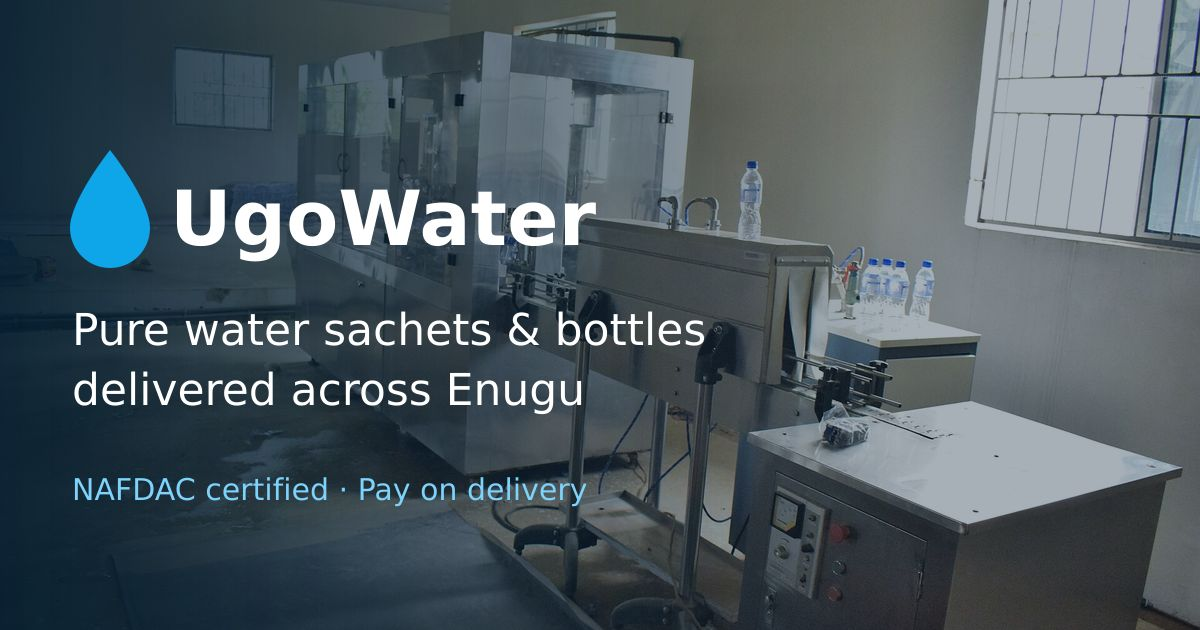
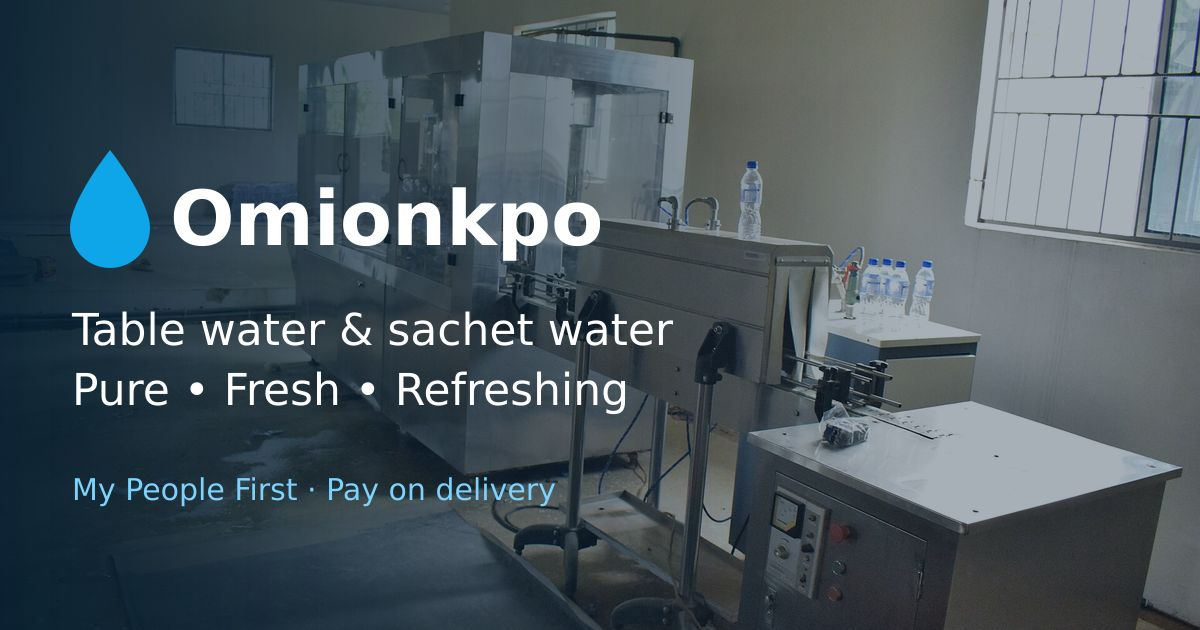
Rename the site to Omionkpo Table Water on the omionkpo subdomain

Changed region(s): [[0.0617, 0.4825, 0.5858, 0.6635], [0.1233, 0.3016, 0.5242, 0.4222], [0.0617, 0.754, 0.4933, 0.8143]]

diff --git a/src/components/Footer.tsx b/src/components/Footer.tsx
@@ -21,16 +21,15 @@ export default function Footer() {
             <Link href="/" className="flex items-center gap-2 mb-4">
               <Droplets className="h-8 w-8 text-primary" />
               <div className="flex flex-col leading-none">
-                <span className="font-bold text-lg">{siteConfig.name}</span>
+                <span className="font-bold text-lg">{siteConfig.shortName}</span>
                 <span className="text-[10px] tracking-widest text-primary font-semibold">
-                  PURE WATER
+                  TABLE WATER
                 </span>
               </div>
             </Link>
             <p className="text-sm text-white/60 leading-relaxed mb-5">
-              Bringing clean, NAFDAC-certified pure water to homes and
-              businesses across Enugu and the South East. From sachet to
-              bottle, we deliver freshness you can trust.
+              Pure, fresh, refreshing table water from Aku, Igbo-Etiti, delivered to homes and
+              businesses across Enugu State. {siteConfig.slogan}.
             </p>
             {socialLinks.length > 0 && (
               <div className="flex items-center gap-3">
@@ -97,19 +96,22 @@ export default function Footer() {
                   {siteConfig.phone}
                 </a>
               </li>
-              <li className="flex items-start gap-2.5">
-                <Mail className="h-4 w-4 text-primary mt-0.5 flex-shrink-0" />
-                <a
-                  href={`mailto:${siteConfig.email}`}
-                  className="text-sm text-white/60 hover:text-primary"
-                >
-                  {siteConfig.email}
-                </a>
-              </li>
+              {siteConfig.email && (
+                <li className="flex items-start gap-2.5">
+                  <Mail className="h-4 w-4 text-primary mt-0.5 flex-shrink-0" />
+                  <a
+                    href={`mailto:${siteConfig.email}`}
+                    className="text-sm text-white/60 hover:text-primary"
+                  >
+                    {siteConfig.email}
+                  </a>
+                </li>
+              )}
               <li className="flex items-start gap-2.5">
                 <MapPin className="h-4 w-4 text-primary mt-0.5 flex-shrink-0" />
                 <span className="text-sm text-white/60">
-                  {siteConfig.address.street}, {siteConfig.address.city}, Nigeria
+                  {siteConfig.address.street}, {siteConfig.address.city}, {siteConfig.address.lga},{' '}
+                  {siteConfig.address.region}
                 </span>
               </li>
             </ul>
@@ -119,19 +121,14 @@ export default function Footer() {
         {/* Bottom bar */}
         <div className="border-t border-white/10 pt-6 flex flex-col md:flex-row items-center justify-between gap-4">
           <p className="text-sm text-white/50">
-            &copy; {new Date().getFullYear()} {siteConfig.name}. All rights
-            reserved.
+            &copy; {new Date().getFullYear()} {siteConfig.name}. All rights reserved.
           </p>
-          <span className="text-sm text-white/50">
-            NAFDAC No: {siteConfig.nafdacNumber}
-          </span>
+          <span className="text-sm text-white/50">NAFDAC No: {siteConfig.nafdacNumber}</span>
         </div>
 
         {photoCredits.length > 0 && (
           <details className="mt-6 text-xs text-white/40">
-            <summary className="cursor-pointer hover:text-white/60">
-              Photo credits
-            </summary>
+            <summary className="cursor-pointer hover:text-white/60">Photo credits</summary>
             <ul className="mt-2 space-y-1">
               {photoCredits.map((credit) => (
                 <li key={credit.file}>

diff --git a/src/constants/reviews.ts b/src/constants/reviews.ts
@@ -5,7 +5,7 @@ export const reviews: Review[] = [
   {
     name: 'Ngozi Eze',
     location: 'Independence Layout, Enugu',
-    text: 'UgoWater has been supplying my restaurant for over a year now. The water is always clean, sealed, and delivered on time. My customers trust it and so do I.',
+    text: 'Omionkpo has been supplying my restaurant for over a year now. The water is always clean, sealed, and delivered on time. My customers trust it and so do I.',
     rating: 5,
     initials: 'NE',
   },
@@ -33,28 +33,28 @@ export const reviews: Review[] = [
   {
     name: 'Uchenna Anozie',
     location: 'Aba, Abia State',
-    text: 'Running a busy shop in Aba, I need water supply I can count on. UgoWater delivers next day and the bottles are always fresh and clean.',
+    text: 'Running a busy shop in Aba, I need water supply I can count on. Omionkpo delivers next day and the bottles are always fresh and clean.',
     rating: 5,
     initials: 'UA',
   },
   {
     name: 'Ogechukwu Nwankwo',
     location: 'Abakaliki, Ebonyi State',
-    text: 'As a school owner, I need reliable water for my students. UgoWater delivers consistently and the sachets are always properly sealed. Very dependable.',
+    text: 'As a school owner, I need reliable water for my students. Omionkpo delivers consistently and the sachets are always properly sealed. Very dependable.',
     rating: 5,
     initials: 'ON',
   },
   {
     name: 'Ifeoma Okafor',
     location: 'Nsukka, Enugu State',
-    text: 'Even up in Nsukka, they still deliver on time. The water tastes clean and fresh every single time. My whole family drinks UgoWater now.',
+    text: 'Even up in Nsukka, they still deliver on time. The water tastes clean and fresh every single time. My whole family drinks Omionkpo now.',
     rating: 5,
     initials: 'IO',
   },
   {
     name: 'Obinna Madu',
     location: 'Onitsha, Anambra State',
-    text: 'I supply UgoWater to my provision store and my customers love it. The sealing is always tight and the price is very fair. Good business partner.',
+    text: 'I supply Omionkpo to my provision store and my customers love it. The sealing is always tight and the price is very fair. Good business partner.',
     rating: 5,
     initials: 'OM',
   },

diff --git a/src/config/site.ts b/src/config/site.ts
@@ -1,22 +1,28 @@
 // Business details used across the site, metadata, sitemap and structured data.
 // The only file that reads env vars. Change the domain via NEXT_PUBLIC_SITE_URL.
 //
-// PLACEHOLDERS: email, address, NAFDAC number and socials are
-// sample values, not the client's real details. Replace before launch.
+// PLACEHOLDERS: NAFDAC number, hours and socials are sample values, not the
+// client's real details. The address is the factory (confirmed). Replace the
+// rest before launch.
 
 export const siteConfig = {
-  name: 'UgoWater',
-  url: (process.env.NEXT_PUBLIC_SITE_URL ?? 'https://ugowater.archmario.com').replace(/\/$/, ''),
-  tagline: 'Pure Water Sachet & Bottle Delivery in Enugu',
+  name: 'Omionkpo Table Water',
+  // Short form for the logo, with "TABLE WATER" underneath
+  shortName: 'Omionkpo',
+  slogan: 'My People First',
+  url: (process.env.NEXT_PUBLIC_SITE_URL ?? 'https://omionkpo.archmario.com').replace(/\/$/, ''),
+  tagline: 'Pure Table Water in Enugu',
   description:
-    'UgoWater delivers clean, NAFDAC-certified pure water sachets and bottled water to homes and businesses across Enugu and the South East. Pay on delivery.',
+    'Omionkpo Table Water: pure, fresh, refreshing table water and sachet water from Aku, Igbo-Etiti, delivered to homes and businesses across Enugu State. Pay on delivery.',
   phone: '+234 902 924 9693',
   // Digits only, international format, for wa.me links
   whatsapp: '2349029249693',
-  email: 'orders@ugowater.com',
+  // Empty until the client sets one up; the site hides email when empty
+  email: '',
   address: {
-    street: '22 Ogui Avenue, Independence Layout',
-    city: 'Enugu',
+    street: 'Plot 1, Udeme Road, Oda Aku',
+    city: 'Aku',
+    lga: 'Igbo-Etiti',
     region: 'Enugu State',
     country: 'NG',
   },
@@ -28,5 +34,5 @@ export const siteConfig = {
     instagram: '',
     twitter: '',
   },
-  areaServed: ['Enugu', 'Nsukka', 'Awka', 'Onitsha', 'Owerri', 'Aba', 'Abakaliki'],
+  areaServed: ['Aku', 'Igbo-Etiti', 'Nsukka', 'Enugu', 'Udi', 'Awgu'],
 };

diff --git a/src/components/OrderSection.tsx b/src/components/OrderSection.tsx
@@ -13,7 +13,7 @@ import { formatNaira } from '@/utils/format';
 export default function OrderSection() {
   const { values, setField, submitted, handleSubmit, reset } = useOrderForm();
 
-  const fullAddress = `${siteConfig.address.street}, ${siteConfig.address.city}, ${siteConfig.address.region}, Nigeria`;
+  const fullAddress = `${siteConfig.address.street}, ${siteConfig.address.city}, ${siteConfig.address.lga}, ${siteConfig.address.region}, Nigeria`;
   const mapEmbedUrl = `https://www.google.com/maps?q=${encodeURIComponent(fullAddress)}&output=embed`;
   const mapLink = `https://www.google.com/maps/search/?api=1&query=${encodeURIComponent(fullAddress)}`;
 
@@ -24,16 +24,16 @@ export default function OrderSection() {
       value: siteConfig.phone,
       href: `tel:${siteConfig.phone.replace(/\s/g, '')}`,
     },
-    {
+    ...(siteConfig.email ? [{
       icon: Mail,
       label: 'Email Us',
       value: siteConfig.email,
       href: `mailto:${siteConfig.email}`,
-    },
+    }] : []),
     {
       icon: MapPin,
       label: 'Visit Our Factory',
-      value: `${siteConfig.address.street}, ${siteConfig.address.city}`,
+      value: `${siteConfig.address.street}, ${siteConfig.address.city}, ${siteConfig.address.lga}`,
       href: mapLink,
     },
     {
@@ -72,7 +72,7 @@ export default function OrderSection() {
                 </div>
                 <div>
                   <h3 className="text-lg font-bold text-foreground">{siteConfig.name}</h3>
-                  <p className="text-sm text-muted-foreground">Pure water, delivered with care</p>
+                  <p className="text-sm text-muted-foreground">{siteConfig.slogan}</p>
                 </div>
               </div>
 

diff --git a/src/components/Hero.tsx b/src/components/Hero.tsx
@@ -40,7 +40,7 @@ export default function Hero() {
           <div className="text-center lg:text-left">
             <div className="fade-rise inline-flex items-center gap-2 bg-white/10 text-sky-200 backdrop-blur-sm border border-white/15 px-4 py-2 rounded-full text-sm font-medium mb-6">
               <ShieldCheck className="h-4 w-4" />
-              NAFDAC Certified & Approved
+              Pure • Fresh • Refreshing
             </div>
 
             <h1 className="text-4xl md:text-5xl lg:text-6xl font-bold text-white leading-tight text-balance mb-6">
@@ -51,8 +51,8 @@ export default function Hero() {
               className="fade-rise text-lg text-white/80 mb-8 max-w-xl mx-auto lg:mx-0 text-balance"
               style={{ '--delay': '450ms' } as CSSProperties}
             >
-              From sachet to bottle, UgoWater delivers fresh, safe drinking water straight to your
-              doorstep. Trusted by thousands of families and businesses across the South East.
+              From sachet to bottle, Omionkpo Table Water delivers fresh, safe drinking water
+              straight to your doorstep across Enugu State. My people first.
             </p>
 
             <div

diff --git a/src/constants/team.ts b/src/constants/team.ts
@@ -3,7 +3,7 @@ import type { Ceo, TeamMember } from '@/types';
 export const ceo: Ceo = {
   name: 'Ugo Okafor',
   title: 'Managing Director & CEO',
-  bio: 'Ugo founded UgoWater in 2015 with a simple mission: bring clean, affordable water to every home in the South East. A proud Enugu indigene and Nnamdi Azikiwe University graduate, he built the company from a single sachet sealing machine to one of the most trusted water brands in the region.',
+  bio: 'Ugo founded Omionkpo Table Water with a simple mission: bring clean, affordable water to every home, starting with his own people in Aku. That is what "My People First" means: every sachet and bottle is made the way he would want it for his own family.',
   image: '',
   quote:
     'Clean water is not a luxury, it is a right. Every sachet we seal is a promise to our people.',

diff --git a/src/app/products/page.tsx b/src/app/products/page.tsx
@@ -3,9 +3,9 @@ import { pageMetadata } from '@/utils/metadata';
 import Products from '@/components/Products';
 
 export const metadata: Metadata = pageMetadata({
-  title: 'Pure Water Sachets & Bottled Water Prices',
+  title: 'Table Water & Sachet Water Prices',
   description:
-    'Pure water sachet, bottled water and dispenser refill prices in Enugu. NAFDAC-certified, factory-sealed and delivered to your door. Bulk and event orders available.',
+    'Omionkpo table water, sachet water and dispenser refill prices in Enugu State. Factory-sealed and delivered to your door. Bulk and event orders available.',
   path: '/products/',
 });
 

diff --git a/src/components/StructuredData.tsx b/src/components/StructuredData.tsx
@@ -14,12 +14,12 @@ export default function StructuredData() {
     url: `${siteConfig.url}/`,
     image: `${siteConfig.url}/og-image.jpg`,
     telephone: siteConfig.phone,
-    email: siteConfig.email,
+    ...(siteConfig.email && { email: siteConfig.email }),
     priceRange: '₦',
     address: {
       '@type': 'PostalAddress',
       streetAddress: siteConfig.address.street,
-      addressLocality: siteConfig.address.city,
+      addressLocality: `${siteConfig.address.city}, ${siteConfig.address.lga}`,
       addressRegion: siteConfig.address.region,
       addressCountry: siteConfig.address.country,
     },

diff --git a/src/components/Header.tsx b/src/components/Header.tsx
@@ -53,12 +53,12 @@ export default function Header() {
             <span
               className={`font-bold text-lg transition-colors ${overHero ? 'text-white' : 'text-foreground'}`}
             >
-              {siteConfig.name}
+              {siteConfig.shortName}
             </span>
             <span
               className={`text-[10px] tracking-widest font-semibold transition-colors ${overHero ? 'text-sky-200' : 'text-primary'}`}
             >
-              PURE WATER
+              TABLE WATER
             </span>
           </div>
         </Link>

diff --git a/src/components/Team.tsx b/src/components/Team.tsx
@@ -13,7 +13,7 @@ export default function Team() {
             Meet The Team
           </span>
           <h1 className="text-3xl md:text-4xl font-bold text-foreground mt-3 mb-4 text-balance">
-            Meet the UgoWater Team
+            Meet the Omionkpo Team
           </h1>
           <p className="text-muted-foreground text-balance">
             We are a proudly Igbo-owned business, rooted in Enugu and serving the entire South East.

diff --git a/src/app/process/page.tsx b/src/app/process/page.tsx
@@ -6,7 +6,7 @@ import Gallery from '@/components/Gallery';
 export const metadata: Metadata = pageMetadata({
   title: 'How Our Pure Water Is Made',
   description:
-    'See how UgoWater filters, lab-tests, seals and delivers NAFDAC-certified pure water across Enugu and the South East.',
+    'See how Omionkpo Table Water filters, lab-tests, seals and delivers NAFDAC-certified table water across Enugu State.',
   path: '/process/',
 });
 

diff --git a/src/app/team/page.tsx b/src/app/team/page.tsx
@@ -5,7 +5,7 @@ import Team from '@/components/Team';
 export const metadata: Metadata = pageMetadata({
   title: 'Our Team',
   description:
-    'Meet the team behind UgoWater, a proudly Igbo-owned pure water business based in Enugu.',
+    'Meet the team behind Omionkpo Table Water, a proudly Igbo-owned table water business in Aku, Igbo-Etiti, Enugu State.',
   path: '/team/',
 });
 
